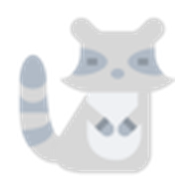
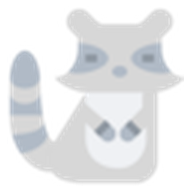
保存布丁漫画图标候选

diff --git a/sources/budingmanhua/ASSET_SOURCES.md b/sources/budingmanhua/ASSET_SOURCES.md
@@ -2,4 +2,4 @@
 
 [官网原件](https://hxy4.com/static/images/favicon.ico)
 
-保留当前官网 favicon 的标志和填色，置入方形画布。成品为 192×192 的完整正方形，已在浅色、深色背景核对。
+保留官网标识原有形状和颜色，移除额外方形底板，按比例放入 192×192 完整正方形透明画布。已核对处理图的浅色、深色背景；最终安装包及设备呈现另行验收。
